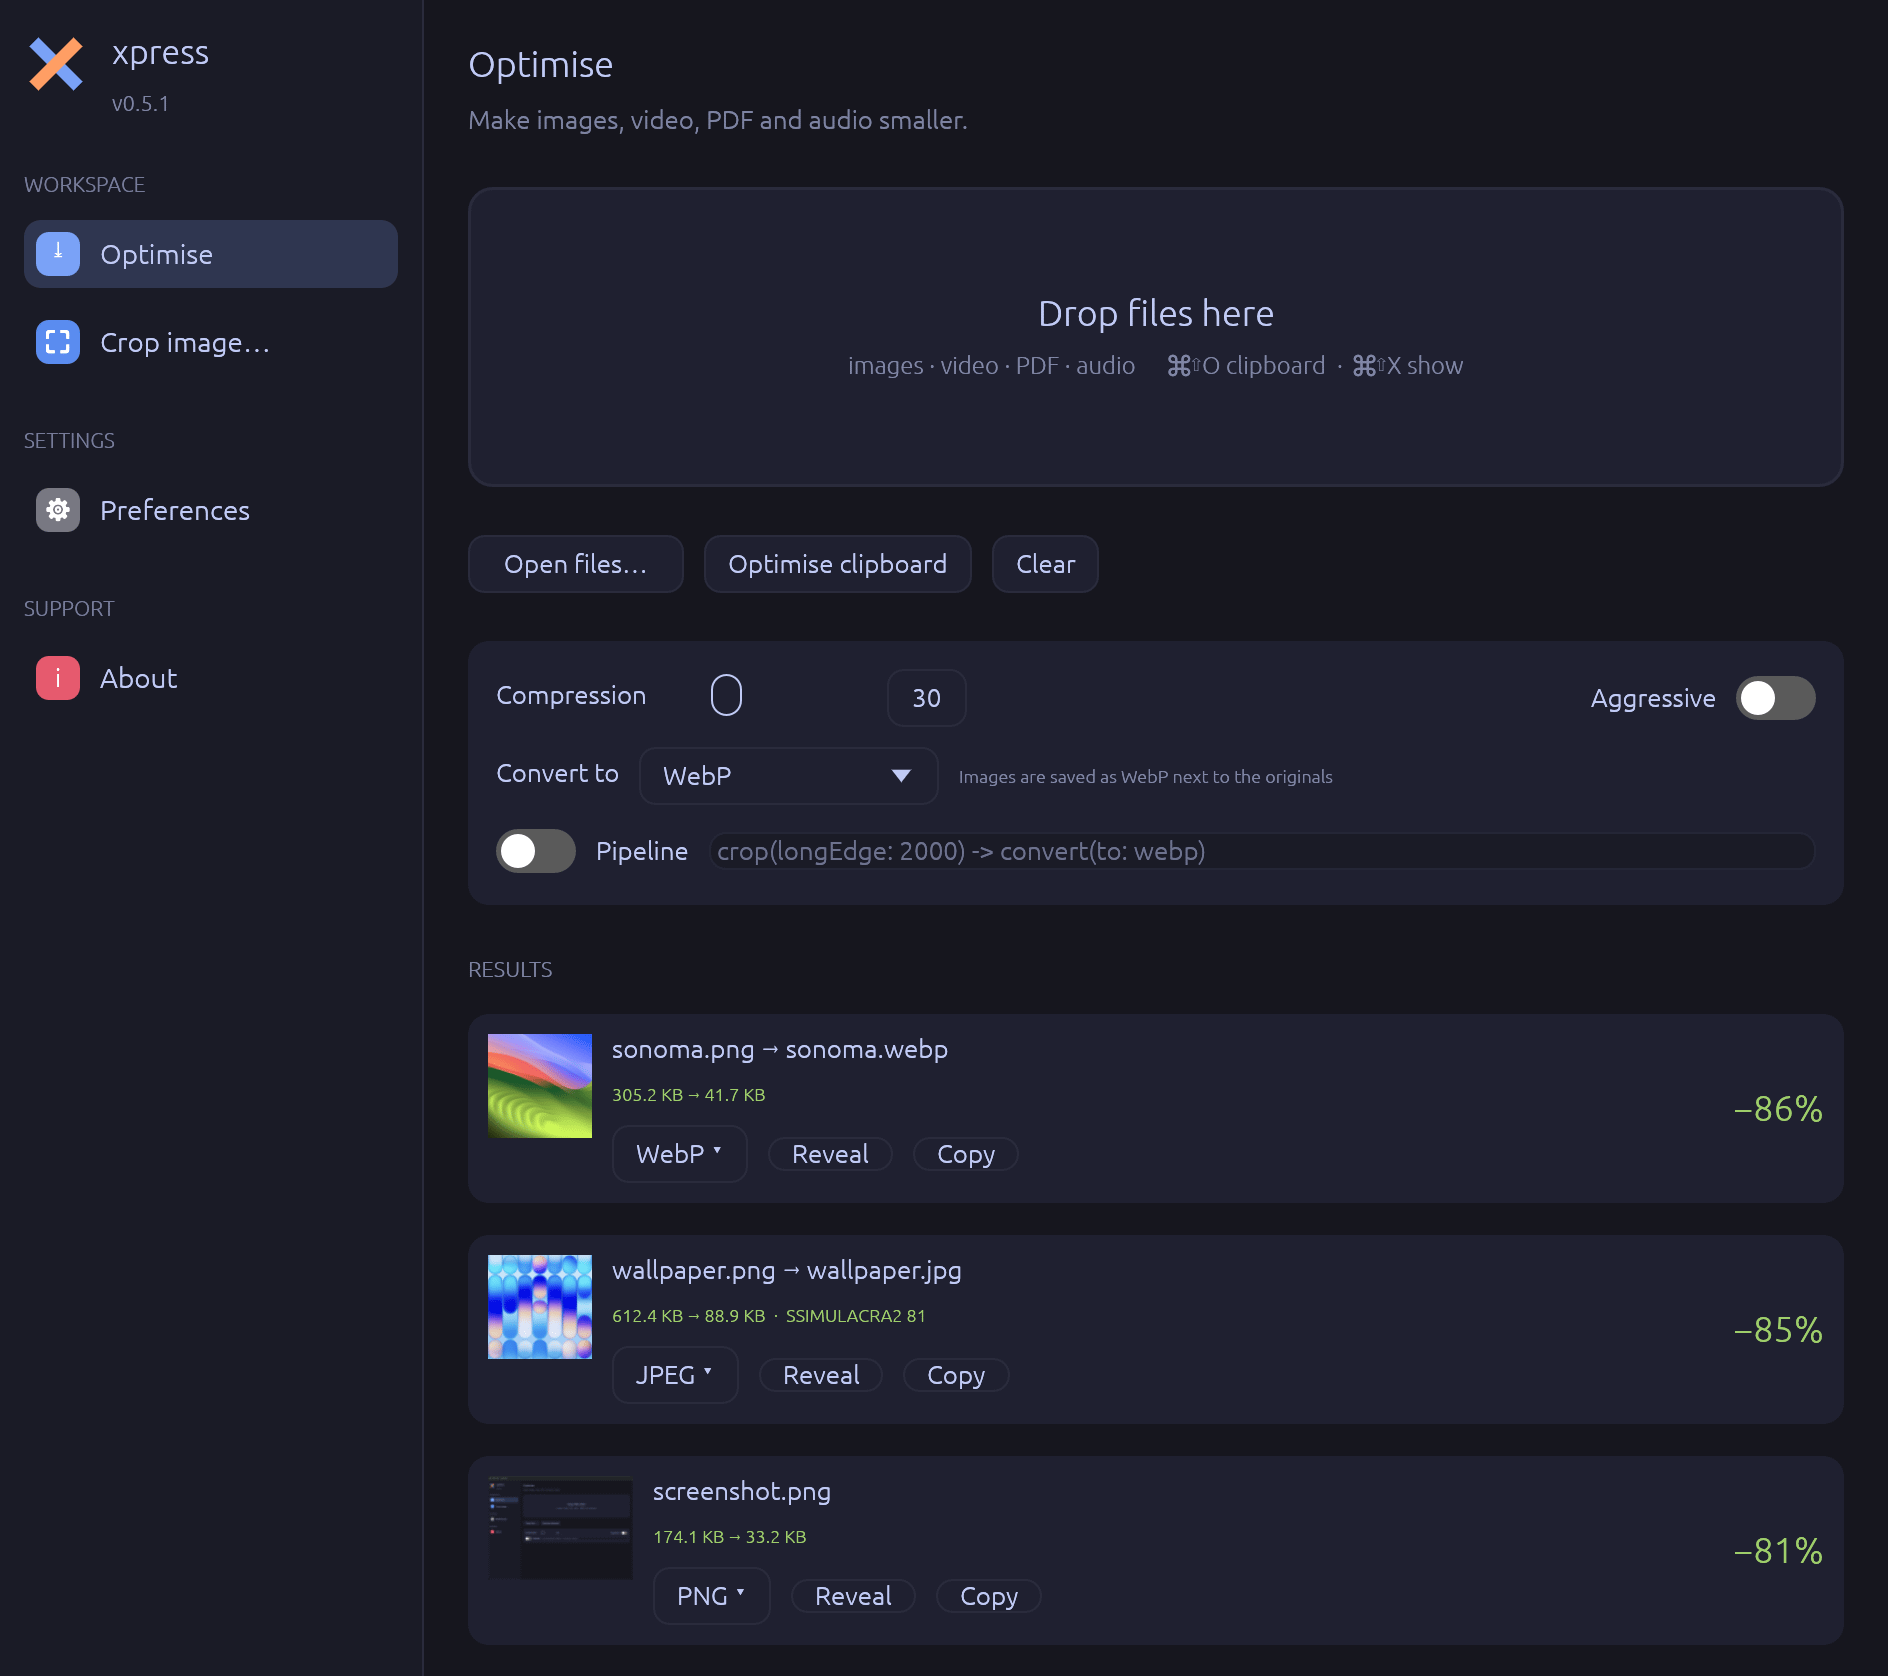
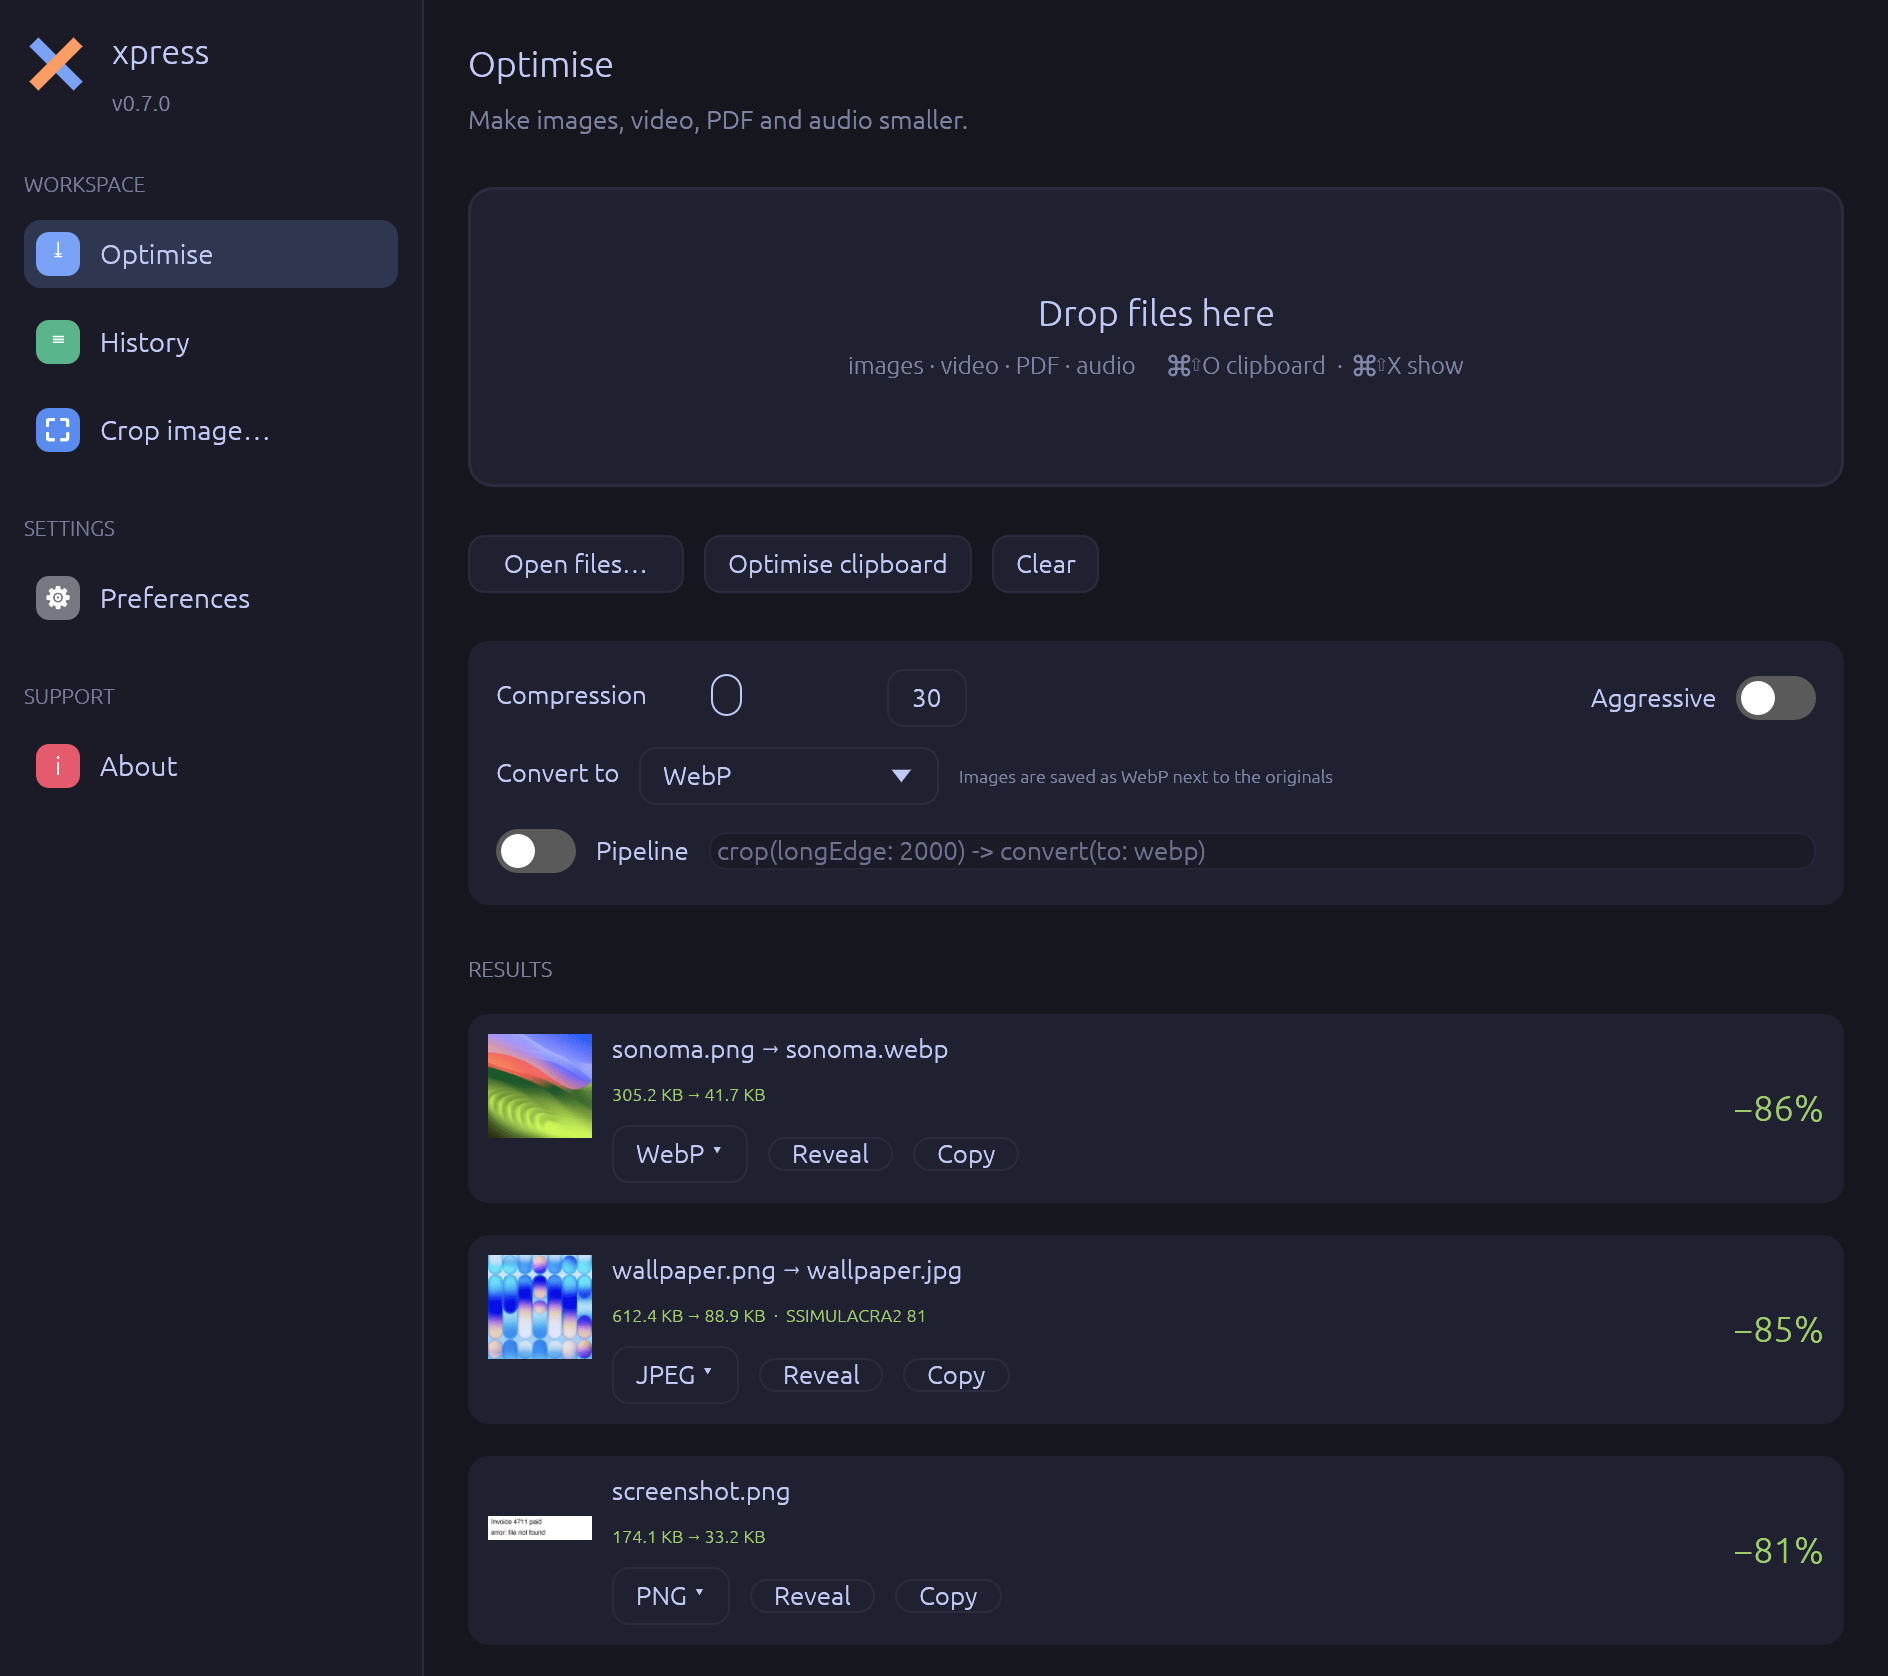
Docs: new app screenshot, keyboard layouts for paste directly

diff --git a/docs/troubleshooting.md b/docs/troubleshooting.md
@@ -95,9 +95,8 @@ thumbnail disappears.
 **Paste directly doesn't paste.**
 xpress needs the Accessibility permission: System Settings → Privacy & Security
 → Accessibility → switch on *xpress* (remove and re-add it if it's listed but
-still doesn't work). xpress presses the key where *V* is on a QWERTY keyboard; with
-a layout that moves V (plain Dvorak), use a “⌘ QWERTY” variant of it, or paste
-yourself with ⌘V.
+still doesn't work). xpress presses the key that gives ⌘V in your current
+keyboard layout (Dvorak, AZERTY and “⌘ QWERTY” layouts included).
 
 **Only the first part of a multi-clip is pasted.**
 Some apps take only one kind of content. Plain text fields get all the text;

diff --git a/CHANGELOG.md b/CHANGELOG.md
@@ -6,6 +6,13 @@ to [Semantic Versioning](https://semver.org/spec/v2.0.0.html).
 
 ## [Unreleased]
 
+### Fixed
+- *Paste directly* presses the key that gives ⌘V in the current keyboard
+  layout; with plain Dvorak it pressed the wrong key.
+- Result cards fit very wide or tall images into the same preview size instead
+  of pushing the text aside.
+- New app screenshot (with History in the sidebar).
+
 ## [0.7.0] - 2026-10-04
 
 ### Added
